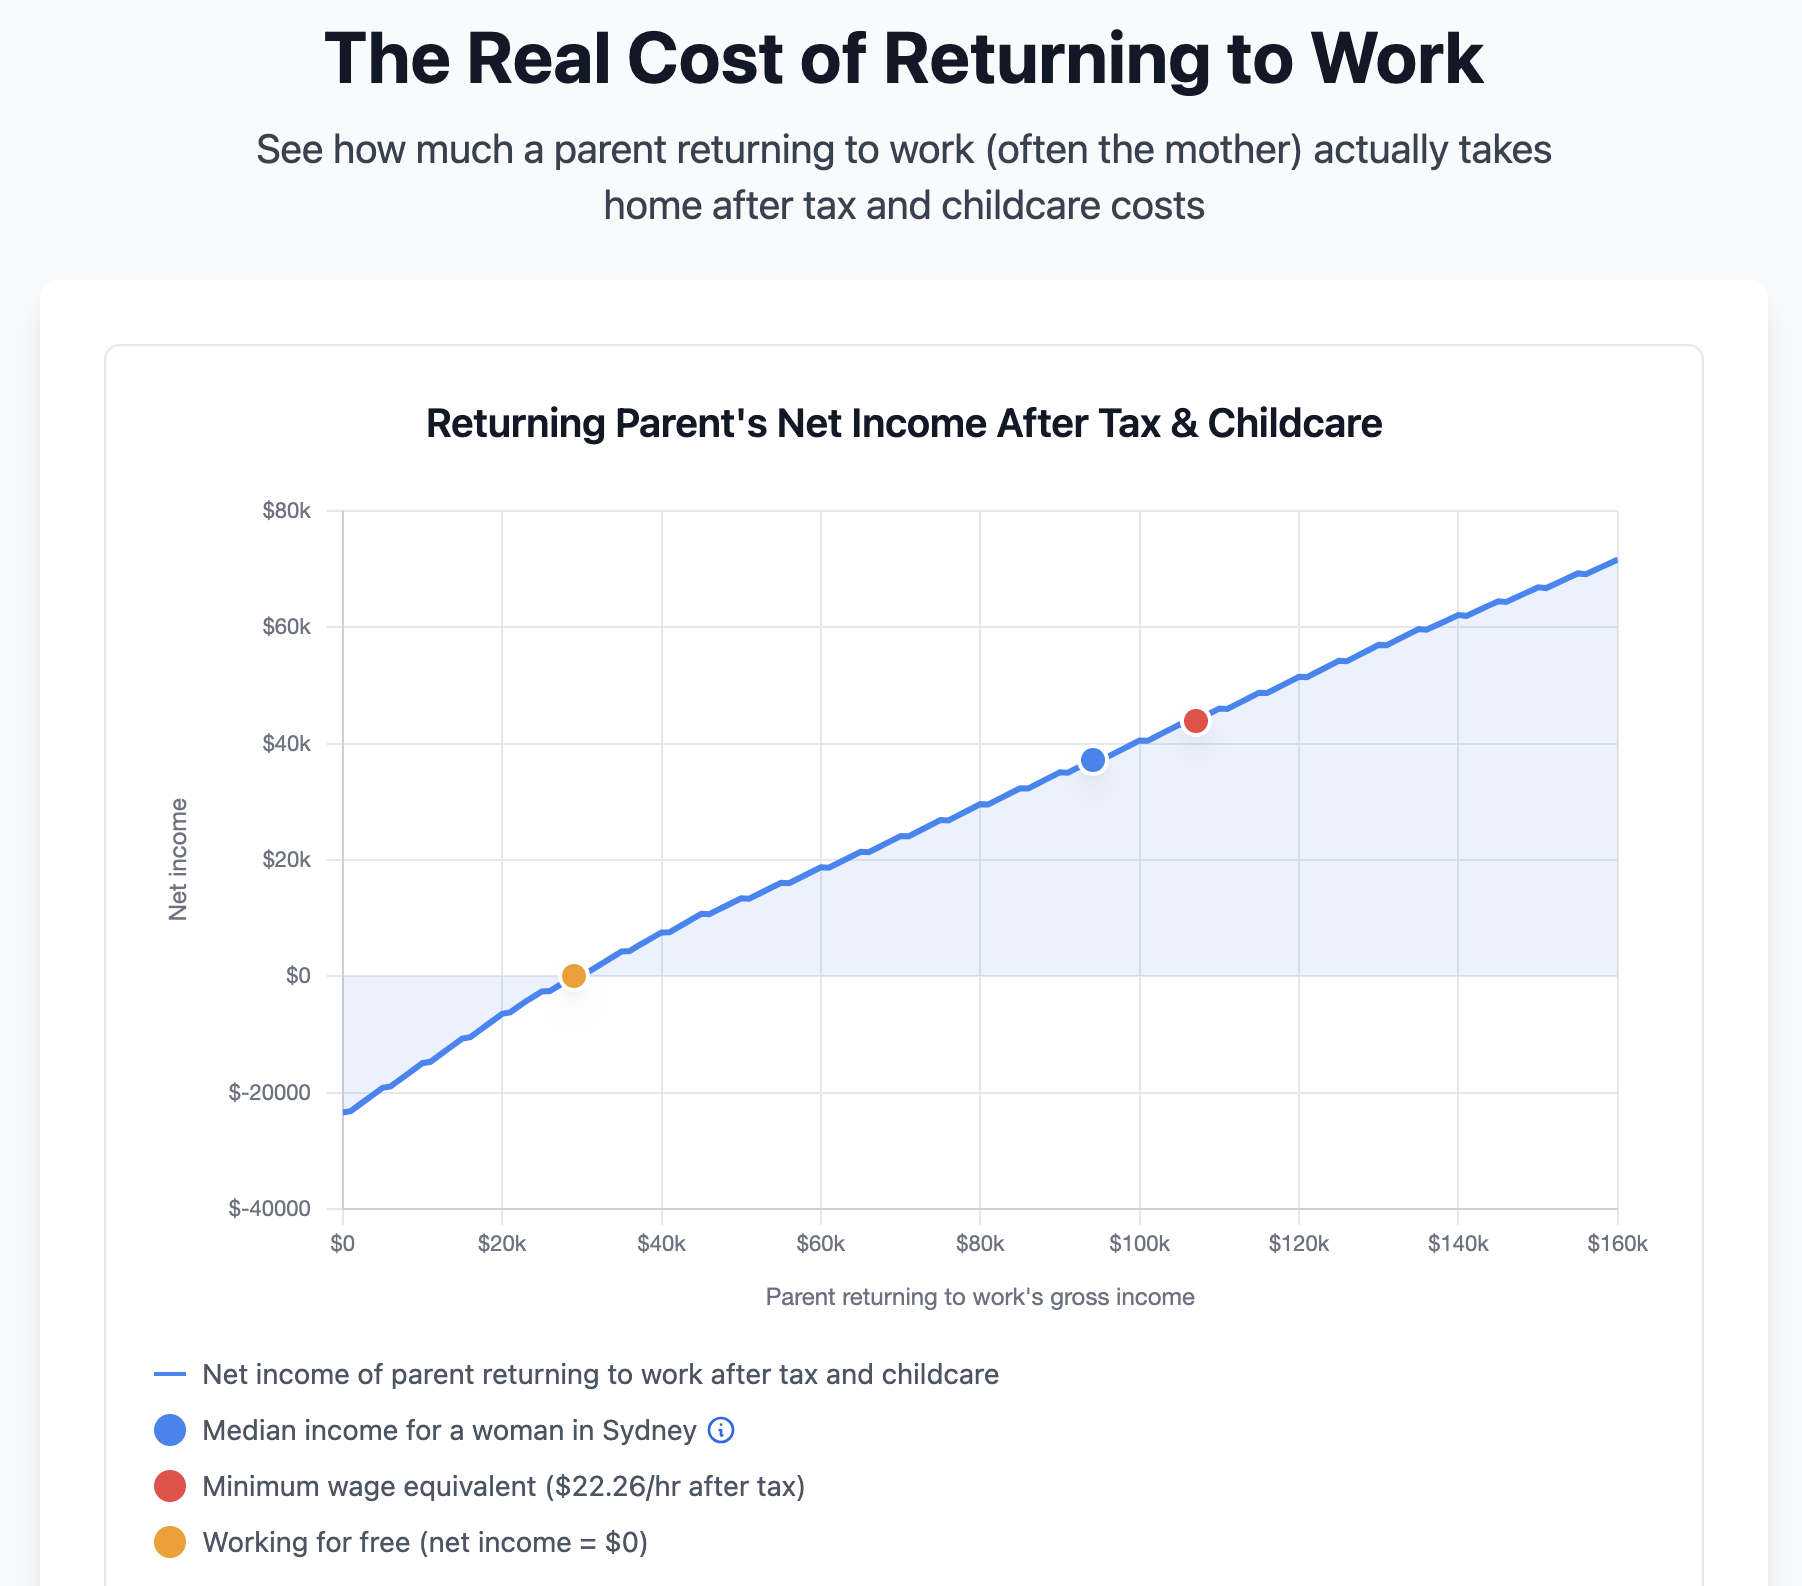
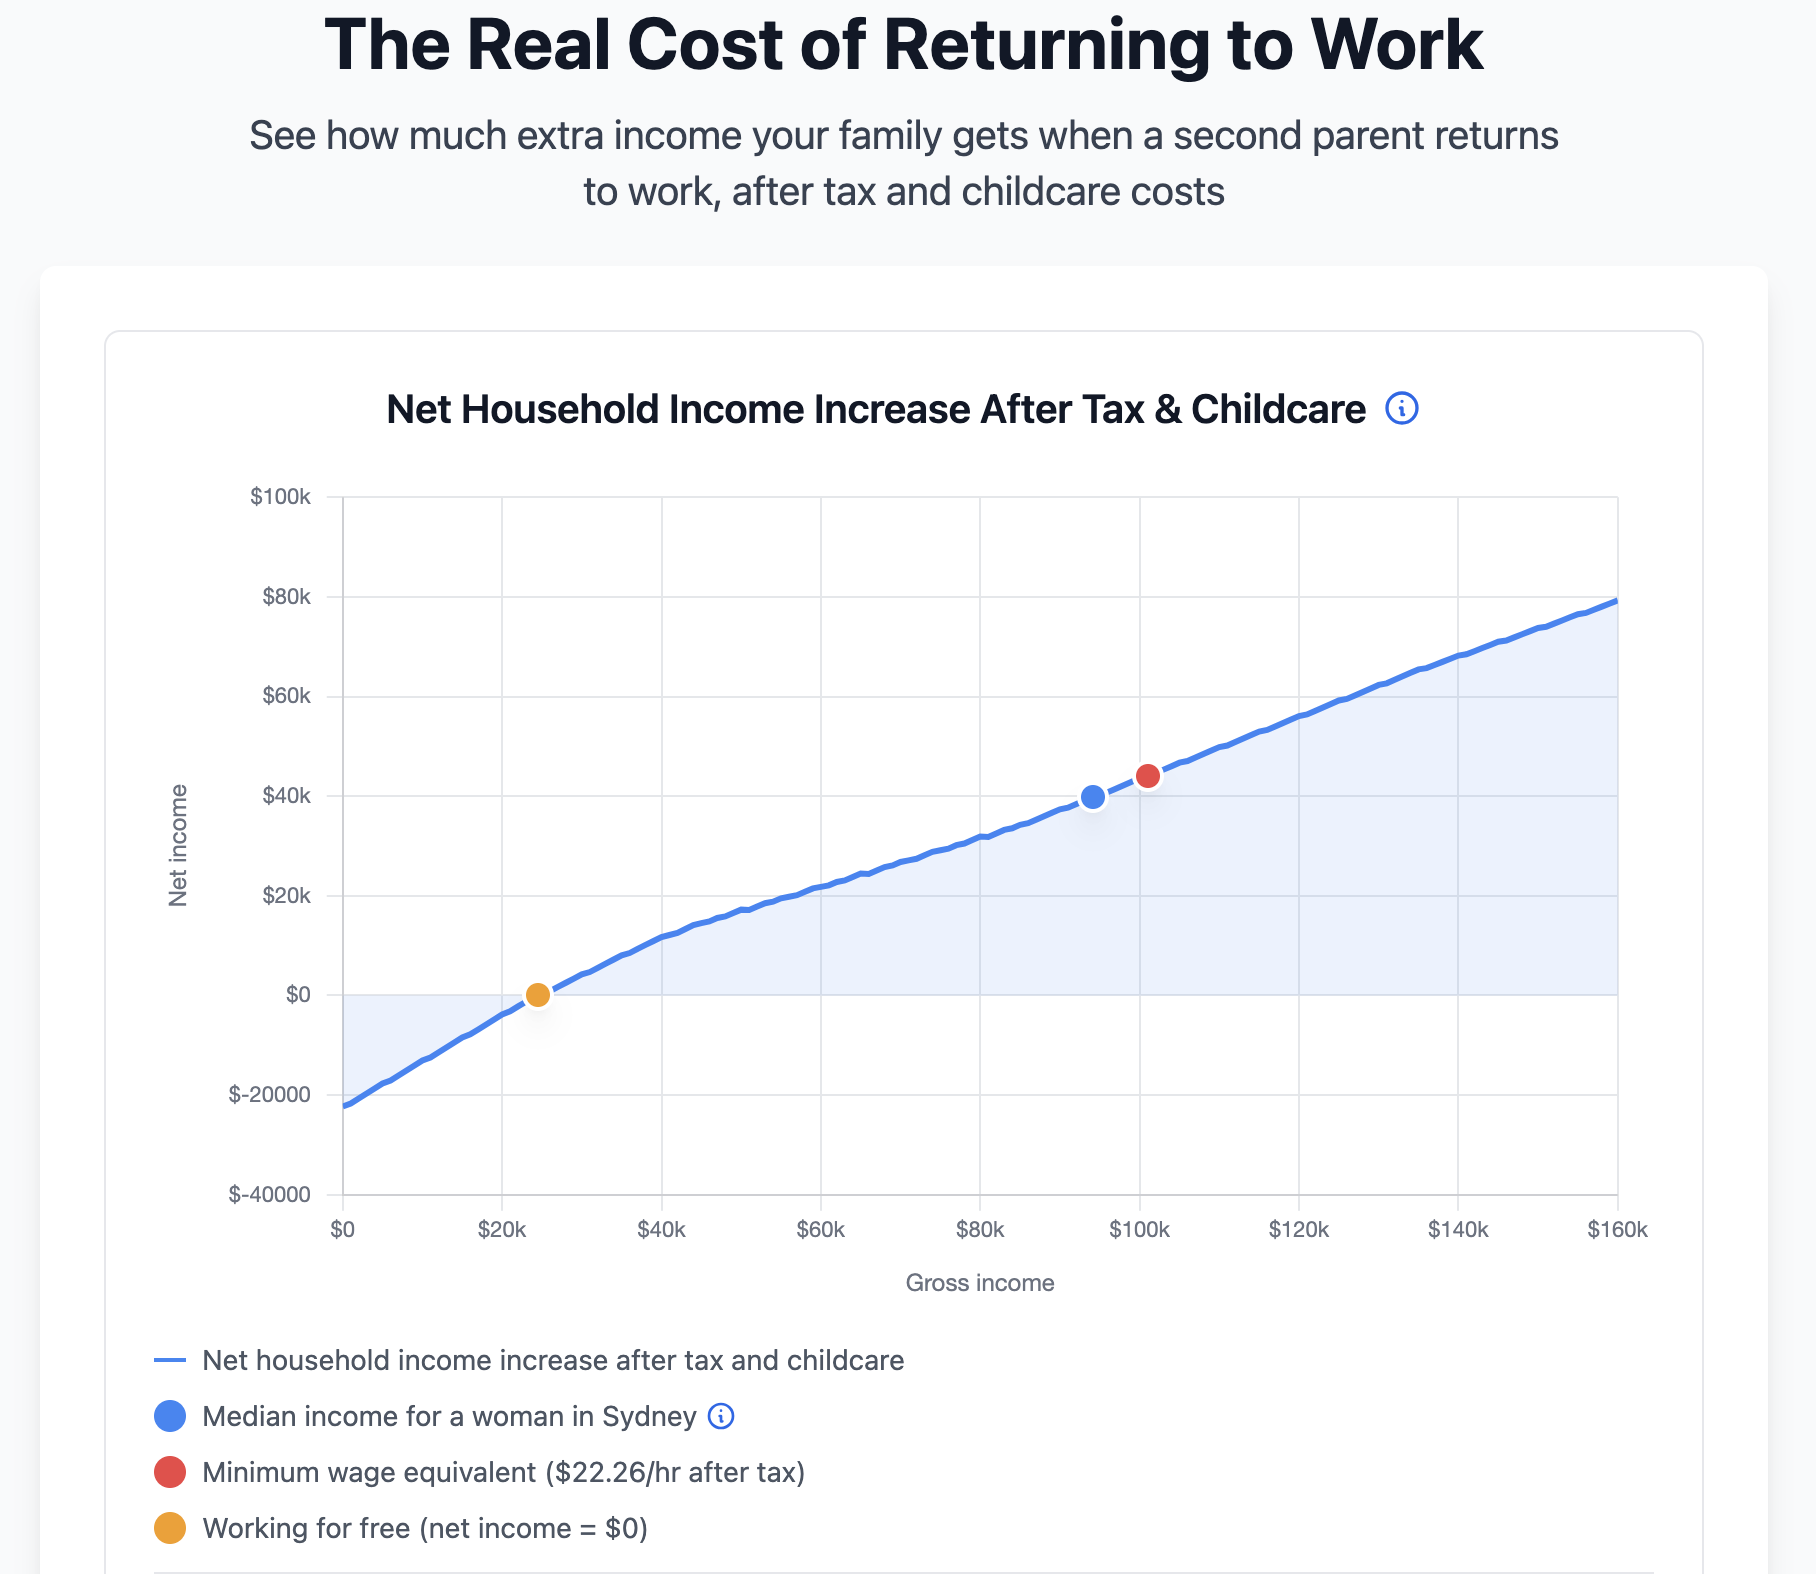
Update screenshot and fix 'working for free' text

diff --git a/src/components/HoursWorkedGraph.tsx b/src/components/HoursWorkedGraph.tsx
@@ -816,7 +816,7 @@ export default function HoursWorkedGraph({
                       title: `${breakEven.hoursPerWeek.toFixed(1)} hours/week (${breakEven.daysPerWeek.toFixed(1)} days/week)`,
                       takeHome,
                       lines,
-                      note: 'You are working for free.',
+                      note: 'Household net income does not increase.',
                       color: 'amber'
                     })
                   }
@@ -828,7 +828,7 @@ export default function HoursWorkedGraph({
                   width: '16px',
                   height: '16px',
                 }}
-                aria-label="Working for free"
+                aria-label="Break-even point (no net income gain)"
               >
                 <div className="w-4 h-4 rounded-full bg-amber-500 border-2 border-white shadow-lg hover:scale-125 transition-transform" />
               </button>
@@ -846,7 +846,7 @@ export default function HoursWorkedGraph({
                     if (currentHoursPoint.netIncome < 0) {
                       note = 'You are losing money by working.'
                     } else if (currentHoursPoint.netIncome === 0) {
-                      note = 'You are working for free.'
+                      note = 'Household net income does not increase.'
                     } else if (currentHoursPoint.netIncome < minimumWageForHours) {
                       note = 'You are earning less than minimum wage.'
                     }
@@ -1046,7 +1046,7 @@ export default function HoursWorkedGraph({
           {breakEven && (
             <div className="flex items-center space-x-2">
               <div className="w-4 h-4 rounded-full bg-amber-500 flex-shrink-0"></div>
-              <span>Working for free (net income = $0) at {breakEven.hoursPerWeek.toFixed(1)}h/week ({breakEven.daysPerWeek.toFixed(1)} days/week)</span>
+              <span>Break-even point (net income = $0) at {breakEven.hoursPerWeek.toFixed(1)}h/week ({breakEven.daysPerWeek.toFixed(1)} days/week)</span>
             </div>
           )}
           {minWageIntersection && (
@@ -1221,7 +1221,7 @@ export default function HoursWorkedGraph({
           <div>
             <h3 className="font-semibold text-gray-900 mb-2">Markers</h3>
             <ul className="list-disc list-inside space-y-1 text-gray-700 ml-2">
-              <li><strong>Amber dot:</strong> The break-even point where household income increase equals $0 (working for free).</li>
+              <li><strong>Amber dot:</strong> The break-even point where household income increase equals $0 (household net income does not increase).</li>
               <li><strong>Blue dot:</strong> Your current hours worked per week.</li>
               <li><strong>Red dot:</strong> The point where household income increase equals minimum wage. Working more hours beyond this point results in household income increase below minimum wage.</li>
               <li><strong>Green dot:</strong> The point where household income increase is highest. Working more hours beyond this point results in lower household income increase.</li>

diff --git a/src/components/IncomeGraph.tsx b/src/components/IncomeGraph.tsx
@@ -554,7 +554,7 @@ export default function IncomeGraph(props: IncomeGraphProps) {
                         title: `You earn $${Math.round(point.grossIncome).toLocaleString()}`,
                         takeHome,
                         lines,
-                        note: 'You are working for free.',
+                        note: 'Household net income does not increase.',
                         color: 'amber'
                       })
                     }
@@ -567,7 +567,7 @@ export default function IncomeGraph(props: IncomeGraphProps) {
                   width: '16px',
                   height: '16px',
                 }}
-                aria-label="Working for free"
+                aria-label="Break-even point (no net income gain)"
               >
                 <div className="w-4 h-4 rounded-full bg-amber-500 border-2 border-white shadow-lg hover:scale-125 transition-transform" />
               </button>
@@ -622,7 +622,7 @@ export default function IncomeGraph(props: IncomeGraphProps) {
                       if (point.netIncome < 0) {
                         note = 'You are losing money by working.'
                       } else if (point.netIncome === 0) {
-                        note = 'You are working for free.'
+                        note = 'Household net income does not increase.'
                       } else if (Math.abs(point.netIncome - minimumWageForHours) < 1) {
                         note = 'You are working at minimum wage.'
                       } else if (point.netIncome < minimumWageForHours) {
@@ -762,7 +762,7 @@ export default function IncomeGraph(props: IncomeGraphProps) {
           {breakEven && (
             <div className="flex items-center space-x-2">
               <div className="w-4 h-4 rounded-full bg-amber-500 flex-shrink-0"></div>
-              <span>Working for free (net income = $0)</span>
+              <span>Break-even point (net income = $0)</span>
             </div>
           )}
         </div>
@@ -835,7 +835,7 @@ export default function IncomeGraph(props: IncomeGraphProps) {
           <div>
             <h3 className="font-semibold text-gray-900 mb-2">Markers</h3>
             <ul className="list-disc list-inside space-y-1 text-gray-700 ml-2">
-              <li><strong>Amber dot:</strong> The break-even point where net income equals $0 (working for free).</li>
+              <li><strong>Amber dot:</strong> The break-even point where net income equals $0 (household net income does not increase).</li>
               <li><strong>Red dot:</strong> The point where your net income equals minimum wage (after tax).</li>
               <li><strong>Blue dot:</strong> {isUsingDefaultIncome ? 'The median income for a woman in Sydney.' : 'Your current income.'}</li>
             </ul>

diff --git a/src/components/IncomeGraph.test.tsx b/src/components/IncomeGraph.test.tsx
@@ -39,7 +39,7 @@ describe('IncomeGraph', () => {
     expect(screen.getByText("Net Household Income Increase After Tax & Childcare")).toBeInTheDocument()
   })
 
-  it('displays working for free point in legend when break-even exists', async () => {
+  it('displays break-even point in legend when break-even exists', async () => {
     render(
       <IncomeGraph
         firstParentIncome={115024}
@@ -49,7 +49,7 @@ describe('IncomeGraph', () => {
     )
     
     await waitFor(() => {
-      expect(screen.getByText(/Working for free/i)).toBeInTheDocument()
+      expect(screen.getByText(/Break-even point/i)).toBeInTheDocument()
     })
   })
 
